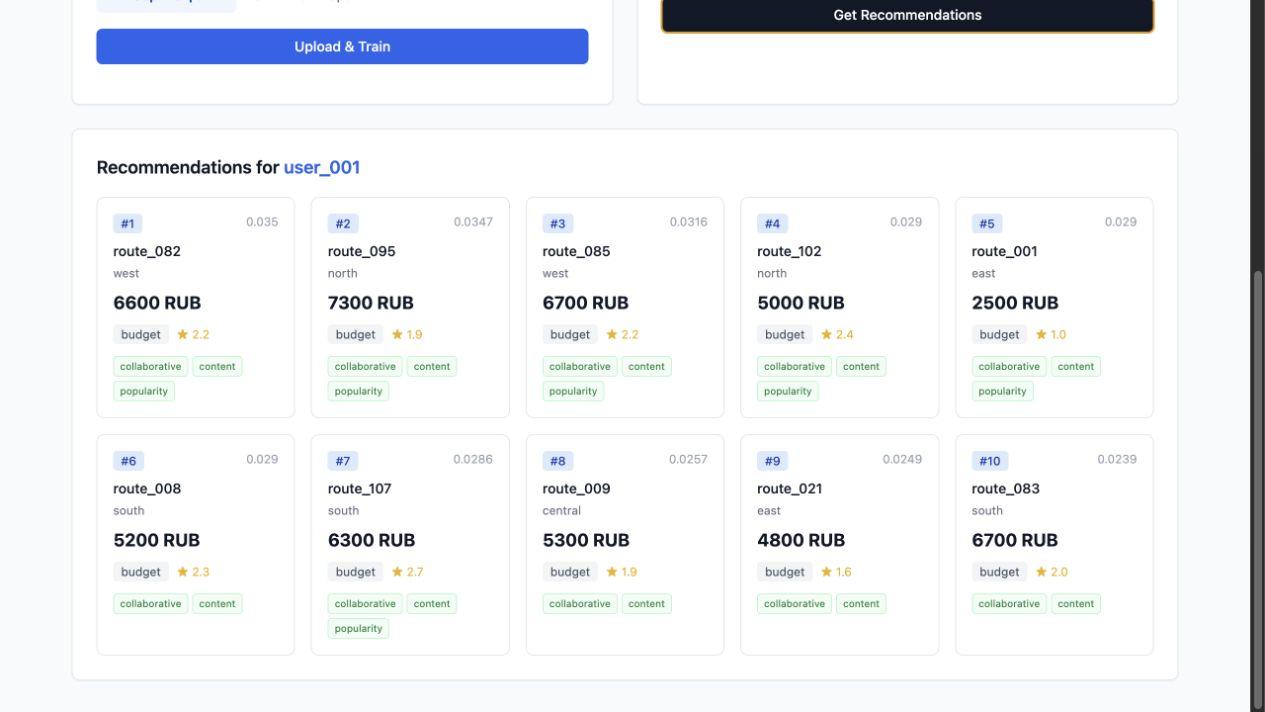
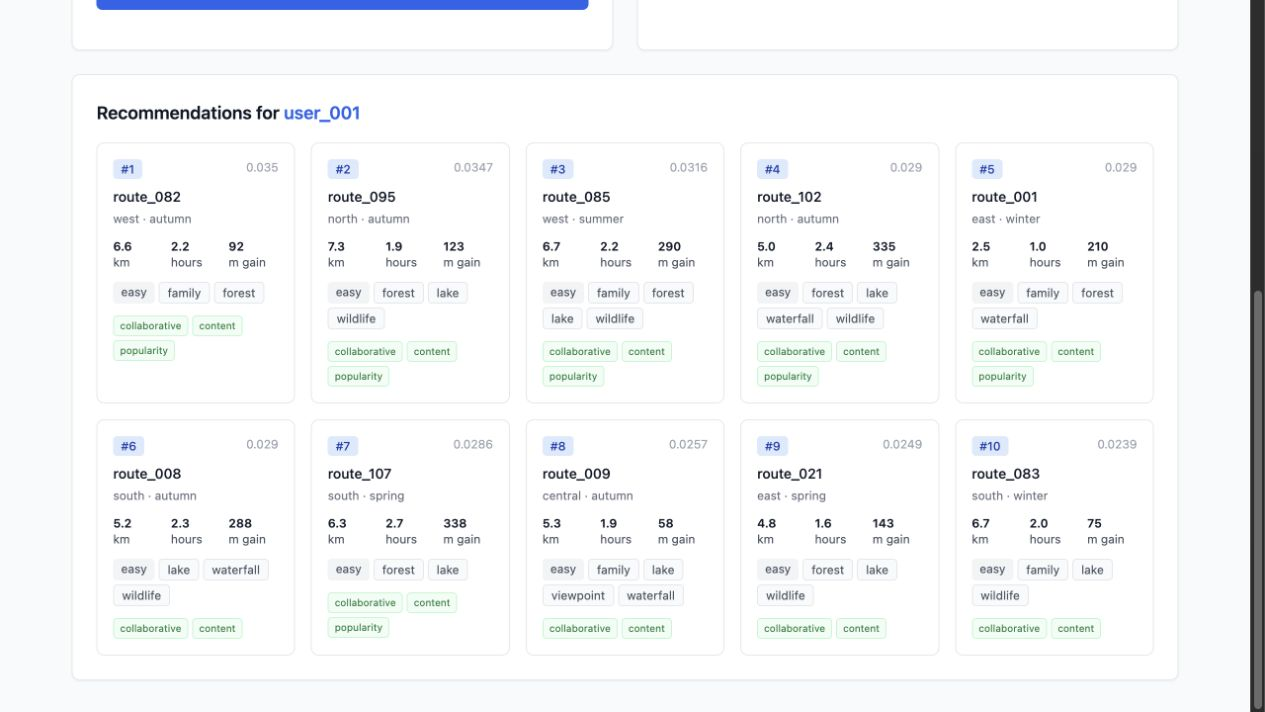
Show route attributes in web UI

diff --git a/src/hiking_recommender/templates/partials/_recommendations.html b/src/hiking_recommender/templates/partials/_recommendations.html
@@ -15,15 +15,28 @@
             </div>
 
             <div class="text-sm font-medium text-gray-900 mb-1">{{ rec.route_id }}</div>
-            <div class="text-xs text-gray-500 mb-2">{{ rec.category }}</div>
+            <div class="text-xs text-gray-500 mb-3">{{ rec.region }} · {{ rec.season }}</div>
 
-            <div class="flex items-center justify-between mb-2">
-                <span class="text-lg font-bold text-gray-900">{{ rec.price }} RUB</span>
+            <div class="grid grid-cols-3 gap-2 mb-3 text-xs text-gray-600">
+                <div>
+                    <div class="font-semibold text-gray-900">{{ rec.length_km }}</div>
+                    <div>km</div>
+                </div>
+                <div>
+                    <div class="font-semibold text-gray-900">{{ rec.duration_hours }}</div>
+                    <div>hours</div>
+                </div>
+                <div>
+                    <div class="font-semibold text-gray-900">{{ rec.elevation_gain_m }}</div>
+                    <div>m gain</div>
+                </div>
             </div>
 
-            <div class="flex items-center gap-2 mb-3">
-                <span class="text-xs px-2 py-0.5 rounded bg-gray-100 text-gray-600">{{ rec.tier }}</span>
-                <span class="text-xs text-yellow-500">★ {{ rec.rating }}</span>
+            <div class="flex flex-wrap gap-1 mb-3">
+                <span class="text-xs px-2 py-0.5 rounded bg-gray-100 text-gray-600">{{ rec.difficulty }}</span>
+                {% for tag in rec.tags %}
+                <span class="text-xs px-2 py-0.5 rounded bg-gray-50 text-gray-600 border border-gray-200">{{ tag }}</span>
+                {% endfor %}
             </div>
 
             <div class="flex flex-wrap gap-1">

diff --git a/src/hiking_recommender/templates/index.html b/src/hiking_recommender/templates/index.html
@@ -13,7 +13,7 @@
     <!-- Header -->
     <div class="mb-8">
         <h1 class="text-3xl font-bold text-gray-900">Recommender Lab</h1>
-        <p class="text-gray-500 mt-1">AI-powered recommendations for your catalog</p>
+        <p class="text-gray-500 mt-1">Route recommendations for a synthetic hiking catalog</p>
     </div>
 
     <!-- Status Bar -->
@@ -41,7 +41,7 @@
 
             <form id="upload-form" hx-post="/upload" hx-target="#upload-result" hx-swap="innerHTML" enctype="multipart/form-data" class="space-y-4">
                 <div>
-                    <label class="block text-sm font-medium text-gray-700 mb-1">Items (products)</label>
+                    <label class="block text-sm font-medium text-gray-700 mb-1">Routes CSV</label>
                     <input type="file" name="items_csv" accept=".csv"
                            class="block w-full text-sm text-gray-500 file:mr-4 file:py-2 file:px-4 file:rounded-md file:border-0 file:text-sm file:font-semibold file:bg-blue-50 file:text-blue-700 hover:file:bg-blue-100"/>
                 </div>

diff --git a/src/hiking_recommender/web_ui.py b/src/hiking_recommender/web_ui.py
@@ -29,8 +29,6 @@ from hiking_recommender.data_loader import (
 from hiking_recommender.features import build_seen_routes
 from hiking_recommender.merger import merge_candidates
 
-TIER_LABELS = {"easy": "budget", "moderate": "moderate", "hard": "premium"}
-
 router = APIRouter()
 templates = Jinja2Templates(directory=Path(__file__).parent / "templates")
 
@@ -217,18 +215,18 @@ async def search_recommendations(request: Request):
             if item_info.empty:
                 continue
             row = item_info.iloc[0]
-            price = int(row["length_km"] * 1000)
-            tier = TIER_LABELS.get(str(row["difficulty"]), str(row["difficulty"]))
             recommendations.append(
                 {
                     "route_id": m.route_id,
                     "rank": m.final_rank,
                     "score": m.merged_score,
-                    "category": str(row["region"]),
-                    "price": price,
-                    "rating": float(row["duration_hours"]),
-                    "tier": tier,
-                    "tags": str(row["route_tags"]),
+                    "region": str(row["region"]),
+                    "length_km": float(row["length_km"]),
+                    "duration_hours": float(row["duration_hours"]),
+                    "elevation_gain_m": int(row["elevation_gain_m"]),
+                    "difficulty": str(row["difficulty"]),
+                    "season": str(row["season"]),
+                    "tags": [tag for tag in str(row["route_tags"]).split("|") if tag],
                     "sources": list(m.sources),
                 }
             )

diff --git a/tests/test_api.py b/tests/test_api.py
@@ -31,6 +31,10 @@ def test_web_ui_search_endpoint_returns_recommendations_partial() -> None:
     assert "Recommendations for" in response.text
     assert "user_001" in response.text
     assert "route_" in response.text
+    assert "km" in response.text
+    assert "hours" in response.text
+    assert "m gain" in response.text
+    assert "RUB" not in response.text
 
 
 def test_web_ui_upload_endpoint_reports_validation_errors() -> None:
